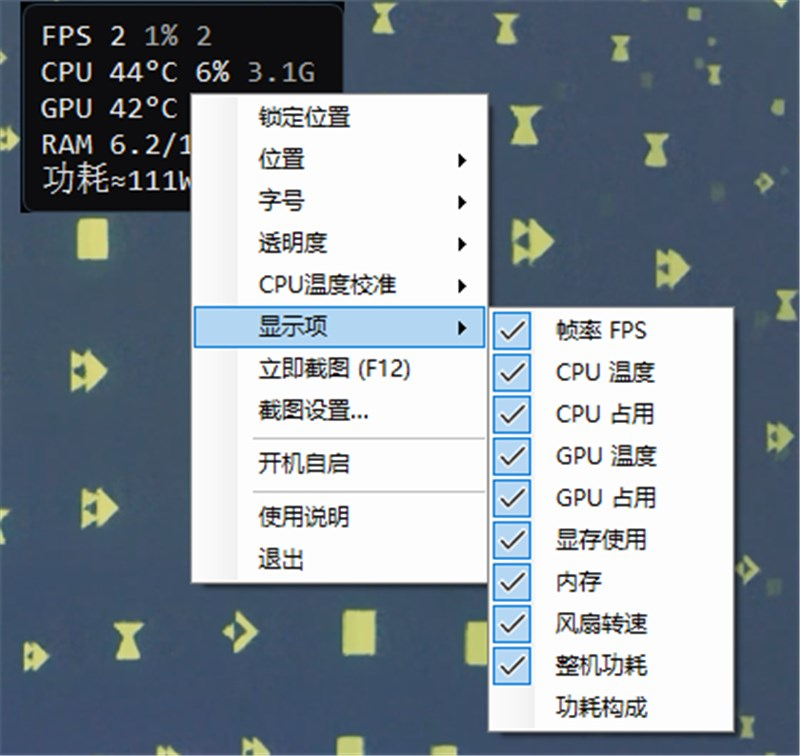
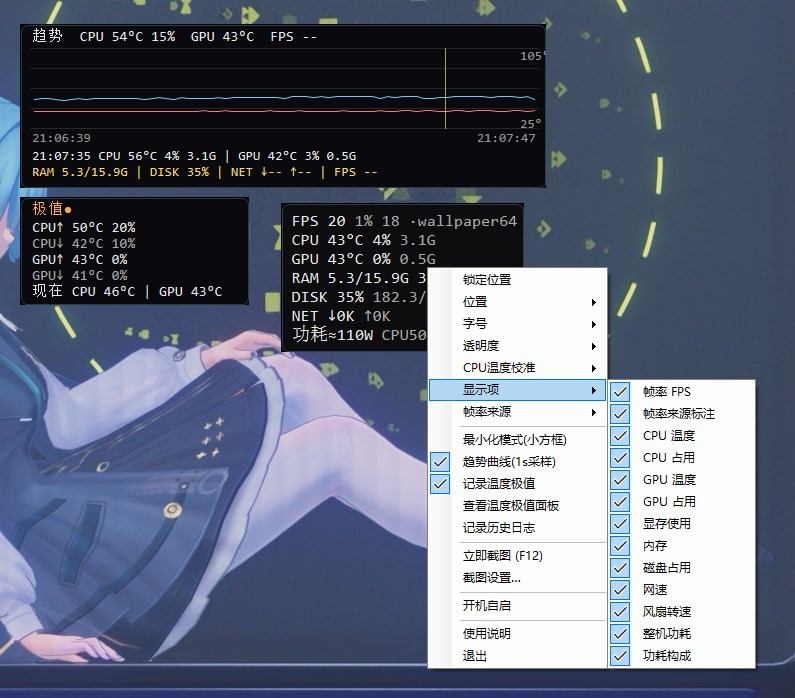
文档站更新：替换悬浮窗演示图为 v1.2 实拍（趋势曲线+极值+显示项），修正功能描述（独立字号/一键截图/帧率来源标注）

diff --git a/docs/index.html b/docs/index.html
@@ -97,9 +97,9 @@
     <h2>💧 只要悬浮窗？</h2>
     <p>如果你只需要<b>游戏/工作时随时瞄一眼的置顶小窗</b>（CPU/GPU 温度、占用、频率、功耗、内存、磁盘、网速、FPS），不需要体检、深度参数这些页面——直接下载<b>独立浮窗版</b>：更轻、启动快、专注一件事。</p>
     <div class="shots" style="margin-top:18px">
-      <div class="shot"><img src="screenshots/overlay-demo.jpg" alt="悬浮窗演示：置顶小窗悬浮在任意界面之上"><p>置顶悬浮窗 · 悬浮在任意界面之上（深色半透明）</p></div>
+      <div class="shot"><img src="screenshots/overlay-demo.jpg" alt="悬浮窗演示：深色半透明置顶小窗，含趋势曲线与温度极值面板"><p>置顶悬浮窗 · 深色半透明 · 悬浮在任意界面之上（v1.2：趋势曲线 + 温度极值 + 显示项自选）</p></div>
     </div>
-    <p style="margin-top:16px;font-size:15px;color:#444">独立浮窗版 v1.2.1：<b>磁盘占用、实时网速、最小化小方框、趋势曲线窗（1 秒采样，悬停回看对应时刻全部数据）、温度极值记录、历史日志、开机自启延迟、**趋势窗/极值面板独立透明度**</b>；帧率走 <b>PresentMon</b>（ETW 系统级，不依赖 RTSS，来源可自选）；体积较初版压缩 53%。</p>
+    <p style="margin-top:16px;font-size:15px;color:#444">独立浮窗版 v1.2.1：<b>磁盘占用、实时网速、最小化小方框、趋势曲线窗（1 秒采样，悬停回看对应时刻全部数据）、温度极值记录、历史日志、开机自启延迟、一键截图（自定义热键）、趋势窗/极值面板独立字号</b>；帧率走 <b>PresentMon</b>（ETW 系统级，不依赖 RTSS，来源可自选，FPS 行可标注采集进程）；体积较初版压缩 53%。</p>
     <p style="margin-top:12px">
       <a href="https://github.com/LinLVEO/pc-check/releases/latest/download/HardwareMonitor-v1.2.1-win-x64.zip">⬇ 下载独立浮窗版 v1.2.1（63.8 MB）</a>
     </p>
